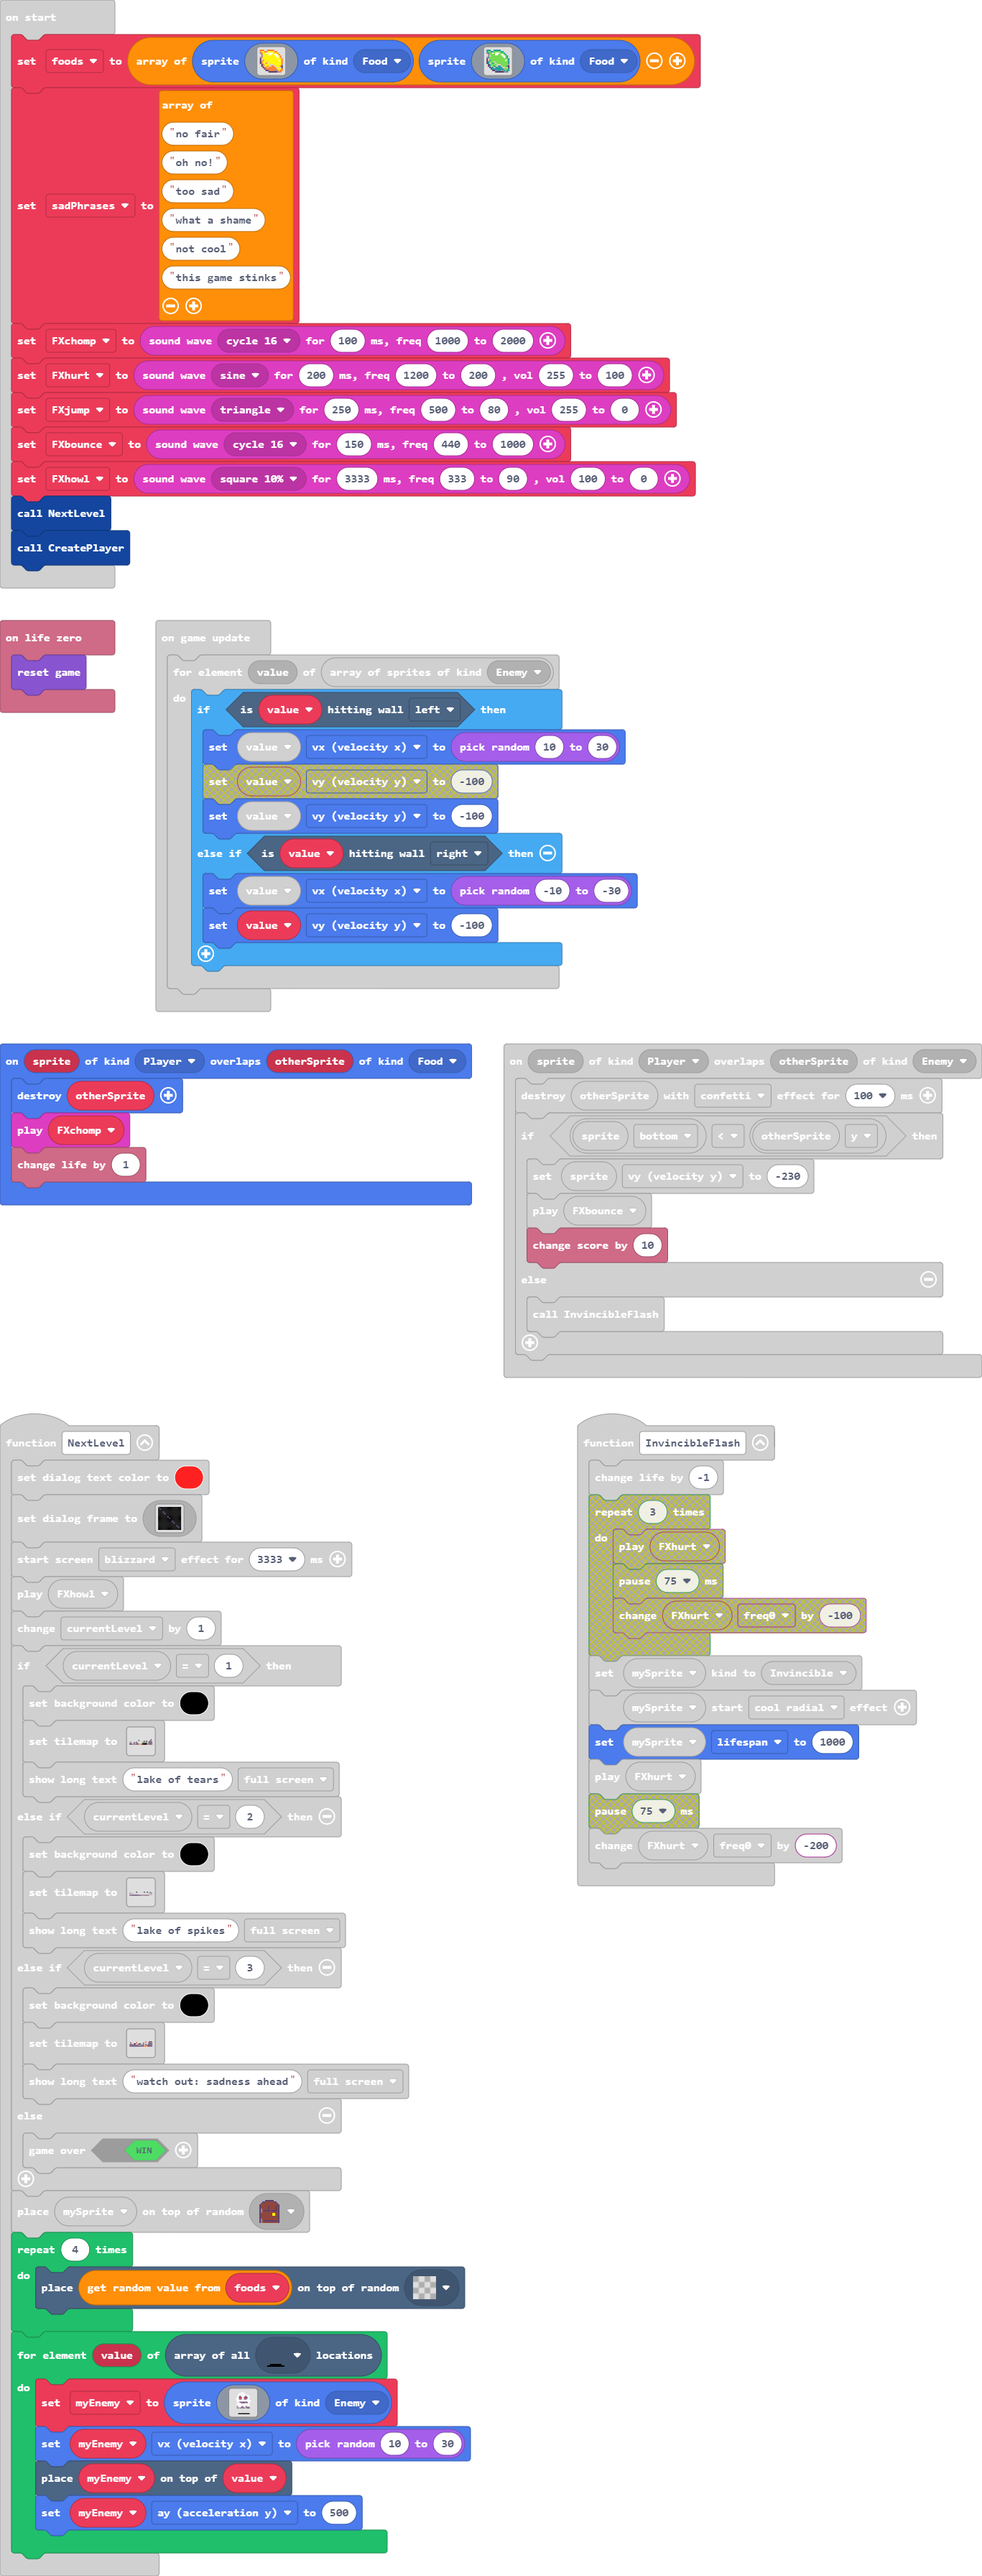
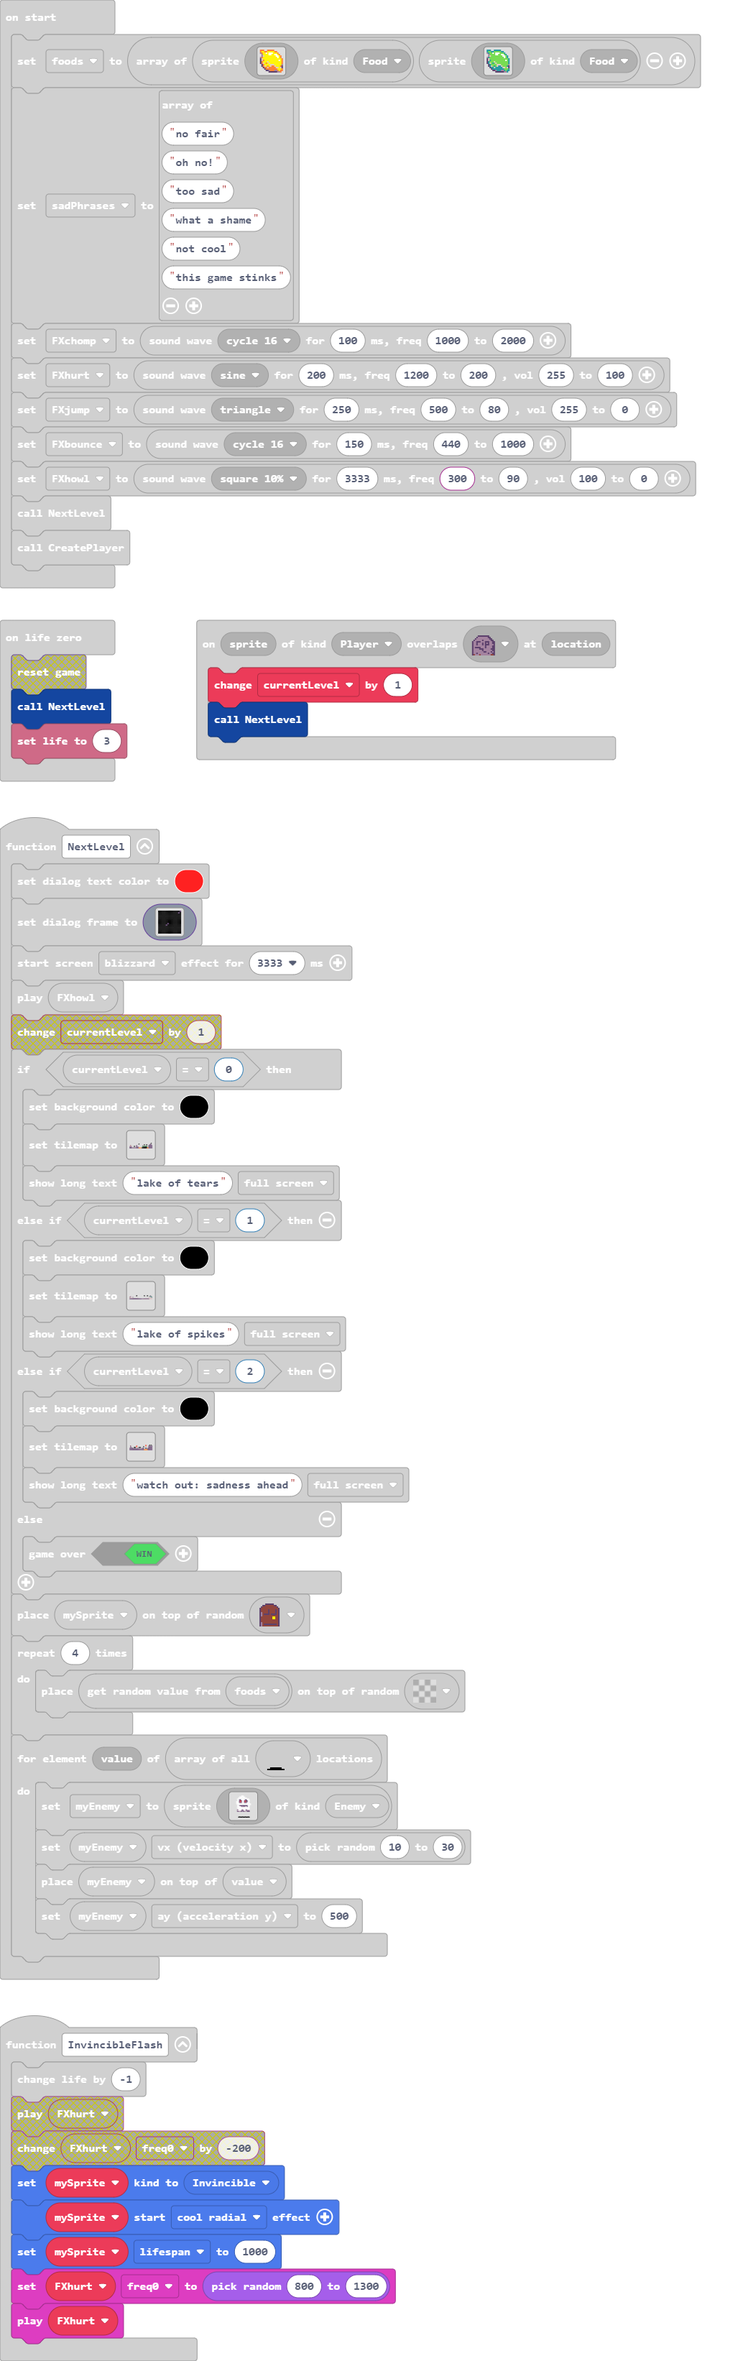
oh stuff

diff --git a/tilemap.g.ts b/tilemap.g.ts
@@ -201,6 +201,63 @@ namespace myTiles {
 2 2 2 2 2 . . . . . 2 . . . . . . . . . . . . . . . 2 2 2 2 
 2 2 2 2 2 2 2 2 2 2 2 2 2 2 2 2 . . . . . . . . . . 2 2 2 2 
 `, [myTiles.transparency16,myTiles.tile3,myTiles.tile4,myTiles.tile5,myTiles.tile2,sprites.dungeon.darkGroundNorth,sprites.dungeon.darkGroundNorthEast0,sprites.dungeon.darkGroundNorthWest0,sprites.dungeon.floorLight0,sprites.dungeon.floorLight1,sprites.dungeon.floorLightMoss,sprites.dungeon.floorLight5,sprites.dungeon.floorDark5,sprites.dungeon.floorDark2,sprites.dungeon.greenOuterNorthWest,sprites.dungeon.greenOuterNorth0,sprites.dungeon.greenOuterSouthEast,sprites.dungeon.greenOuterSouth0,sprites.dungeon.greenOuterNorthEast], TileScale.Sixteen);
+            case "level8":
+            case "level8":return tiles.createTilemap(hex`1000100000000000000000000000000000000000000000000000000000000000000000000000000000000000000000000000000000000000000000000000000000000000000000000000000000000000000000000000000000000000000000000000000000000000000000000000000000000000000000000000000000000000000000000000000000000000000000000000000000000000000000000000000000000000000000000000000000000000000000000000000000000000000000000000000000000000000000000000000000000000000000000000000000000000000000000000000000000000000000000000000000000000000000000000000000000000`, img`
+. . . . . . . . . . . . . . . . 
+. . . . . . . . . . . . . . . . 
+. . . . . . . . . . . . . . . . 
+. . . . . . . . . . . . . . . . 
+. . . . . . . . . . . . . . . . 
+. . . . . . . . . . . . . . . . 
+. . . . . . . . . . . . . . . . 
+. . . . . . . . . . . . . . . . 
+. . . . . . . . . . . . . . . . 
+. . . . . . . . . . . . . . . . 
+. . . . . . . . . . . . . . . . 
+. . . . . . . . . . . . . . . . 
+. . . . . . . . . . . . . . . . 
+. . . . . . . . . . . . . . . . 
+. . . . . . . . . . . . . . . . 
+. . . . . . . . . . . . . . . . 
+`, [myTiles.transparency16], TileScale.Sixteen);
+            case "level9":
+            case "level9":return tiles.createTilemap(hex`1000100000000000000000000000000000000000000000000000000000000000000000000000000000000000000000000000000000000000000000000000000000000000000000000000000000000000000000000000000000000000000000000000000000000000000000000000000000000000000000000000000000000000000000000000000000000000000000000000000000000000000000000000000000000000000000000000000000000000000000000000000000000000000000000000000000000000000000000000000000000000000000000000000000000000000000000000000000000000000000000000000000000000000000000000000000000000`, img`
+. . . . . . . . . . . . . . . . 
+. . . . . . . . . . . . . . . . 
+. . . . . . . . . . . . . . . . 
+. . . . . . . . . . . . . . . . 
+. . . . . . . . . . . . . . . . 
+. . . . . . . . . . . . . . . . 
+. . . . . . . . . . . . . . . . 
+. . . . . . . . . . . . . . . . 
+. . . . . . . . . . . . . . . . 
+. . . . . . . . . . . . . . . . 
+. . . . . . . . . . . . . . . . 
+. . . . . . . . . . . . . . . . 
+. . . . . . . . . . . . . . . . 
+. . . . . . . . . . . . . . . . 
+. . . . . . . . . . . . . . . . 
+. . . . . . . . . . . . . . . . 
+`, [myTiles.transparency16], TileScale.Sixteen);
+            case "level10":
+            case "level10":return tiles.createTilemap(hex`1000100000000000000000000000000000000000000000000000000000000000000000000000000000000000000000000000000000000000000000000000000000000000000000000000000000000000000000000000000000000000000000000000000000000000000000000000000000000000000000000000000000000000000000000000000000000000000000000000000000000000000000000000000000000000000000000000000000000000000000000000000000000000000000000000000000000000000000000000000000000000000000000000000000000000000000000000000000000000000000000000000000000000000000000000000000000000`, img`
+. . . . . . . . . . . . . . . . 
+. . . . . . . . . . . . . . . . 
+. . . . . . . . . . . . . . . . 
+. . . . . . . . . . . . . . . . 
+. . . . . . . . . . . . . . . . 
+. . . . . . . . . . . . . . . . 
+. . . . . . . . . . . . . . . . 
+. . . . . . . . . . . . . . . . 
+. . . . . . . . . . . . . . . . 
+. . . . . . . . . . . . . . . . 
+. . . . . . . . . . . . . . . . 
+. . . . . . . . . . . . . . . . 
+. . . . . . . . . . . . . . . . 
+. . . . . . . . . . . . . . . . 
+. . . . . . . . . . . . . . . . 
+. . . . . . . . . . . . . . . . 
+`, [myTiles.transparency16], TileScale.Sixteen);
         }
         return null;
     })

diff --git a/main.ts b/main.ts
@@ -2,6 +2,7 @@ namespace SpriteKind {
     export const Invincible = SpriteKind.create()
 }
 scene.onOverlapTile(SpriteKind.Player, assets.tile`tile4`, function (sprite, location) {
+    currentLevel += 1
     NextLevel()
 })
 function CreatePlayer () {
@@ -51,34 +52,33 @@ sprites.onDestroyed(SpriteKind.Invincible, function (sprite) {
 function NextLevel () {
     game.setDialogTextColor(2)
     game.setDialogFrame(img`
-        c f f f f f f f f f f f f f f 
-        f c f f f f f f f f f f f f f 
+        f f f f f f f f f f f f f f c 
+        f f f f f f f f f f f f f c f 
         f f f f f f f f f f f f f f f 
-        f f f c f f f f f f f f f f f 
-        f f f f c f f f f f f f f f f 
+        f f f f f f f f f f f f f f f 
+        f f f f f f f f f f f f f f f 
+        f f f f f f f f f f f f f f f 
+        f f f f f f f f f f f f f f f 
         f f f f f f f f f f f f f f f 
         f f f f f f c f f f f f f f f 
-        f f f f f f f c f f f f f f f 
+        f f f f f c f f f f f f f f f 
         f f f f f f f f f f f f f f f 
-        f f f f f f f f f c f f f f f 
-        f f f f f f f f f f c f f f f 
         f f f f f f f f f f f f f f f 
-        f f f f f f f f f f f f c f f 
-        f f f f f f f f f f f f f c f 
+        f f f f f f f f f f f f f f f 
+        f f f f f f f f f f f f f f f 
         f f f f f f f f f f f f f f f 
         `)
     effects.blizzard.startScreenEffect(3333)
     FXhowl.play()
-    currentLevel += 1
-    if (currentLevel == 1) {
+    if (currentLevel == 0) {
         scene.setBackgroundColor(15)
         tiles.setTilemap(tilemap`platformer11`)
         game.showLongText("lake of tears", DialogLayout.Full)
-    } else if (currentLevel == 2) {
+    } else if (currentLevel == 1) {
         scene.setBackgroundColor(15)
         tiles.setTilemap(tilemap`level01`)
         game.showLongText("lake of spikes", DialogLayout.Full)
-    } else if (currentLevel == 3) {
+    } else if (currentLevel == 2) {
         scene.setBackgroundColor(15)
         tiles.setTilemap(tilemap`platformer1`)
         game.showLongText("watch out: sadness ahead", DialogLayout.Full)
@@ -123,14 +123,15 @@ function NextLevel () {
 }
 function InvincibleFlash () {
     info.changeLifeBy(-1)
+    FXhurt.freq0 = randint(800, 1300)
     FXhurt.play()
-    FXhurt.freq0 += -200
     mySprite.setKind(SpriteKind.Invincible)
     mySprite.startEffect(effects.coolRadial)
     mySprite.lifespan = 1000
 }
 info.onLifeZero(function () {
-    game.reset()
+    NextLevel()
+    info.setLife(3)
 })
 sprites.onOverlap(SpriteKind.Player, SpriteKind.Food, function (sprite, otherSprite) {
     otherSprite.destroy()
@@ -157,8 +158,8 @@ sprites.onOverlap(SpriteKind.Player, SpriteKind.Enemy, function (sprite, otherSp
     }
 })
 let myEnemy: Sprite = null
-let currentLevel = 0
 let mySprite: Sprite = null
+let currentLevel = 0
 let FXhowl: SoundBuffer = null
 let FXbounce: SoundBuffer = null
 let FXjump: SoundBuffer = null
@@ -213,7 +214,7 @@ FXchomp = soundEffects.createSound(soundEffects.waveNumber(WaveType.Cycle16), 10
 FXhurt = soundEffects.createSound(soundEffects.waveNumber(WaveType.Sine), 200, 1200, 200, 255, 100)
 FXjump = soundEffects.createSound(soundEffects.waveNumber(WaveType.Triangle), 250, 500, 80, 255, 0)
 FXbounce = soundEffects.createSound(soundEffects.waveNumber(WaveType.Cycle16), 150, 440, 1000)
-FXhowl = soundEffects.createSound(soundEffects.waveNumber(WaveType.Square10), 3333, 333, 90, 100, 0)
+FXhowl = soundEffects.createSound(soundEffects.waveNumber(WaveType.Square10), 3333, 300, 90, 100, 0)
 NextLevel()
 CreatePlayer()
 game.onUpdate(function () {
